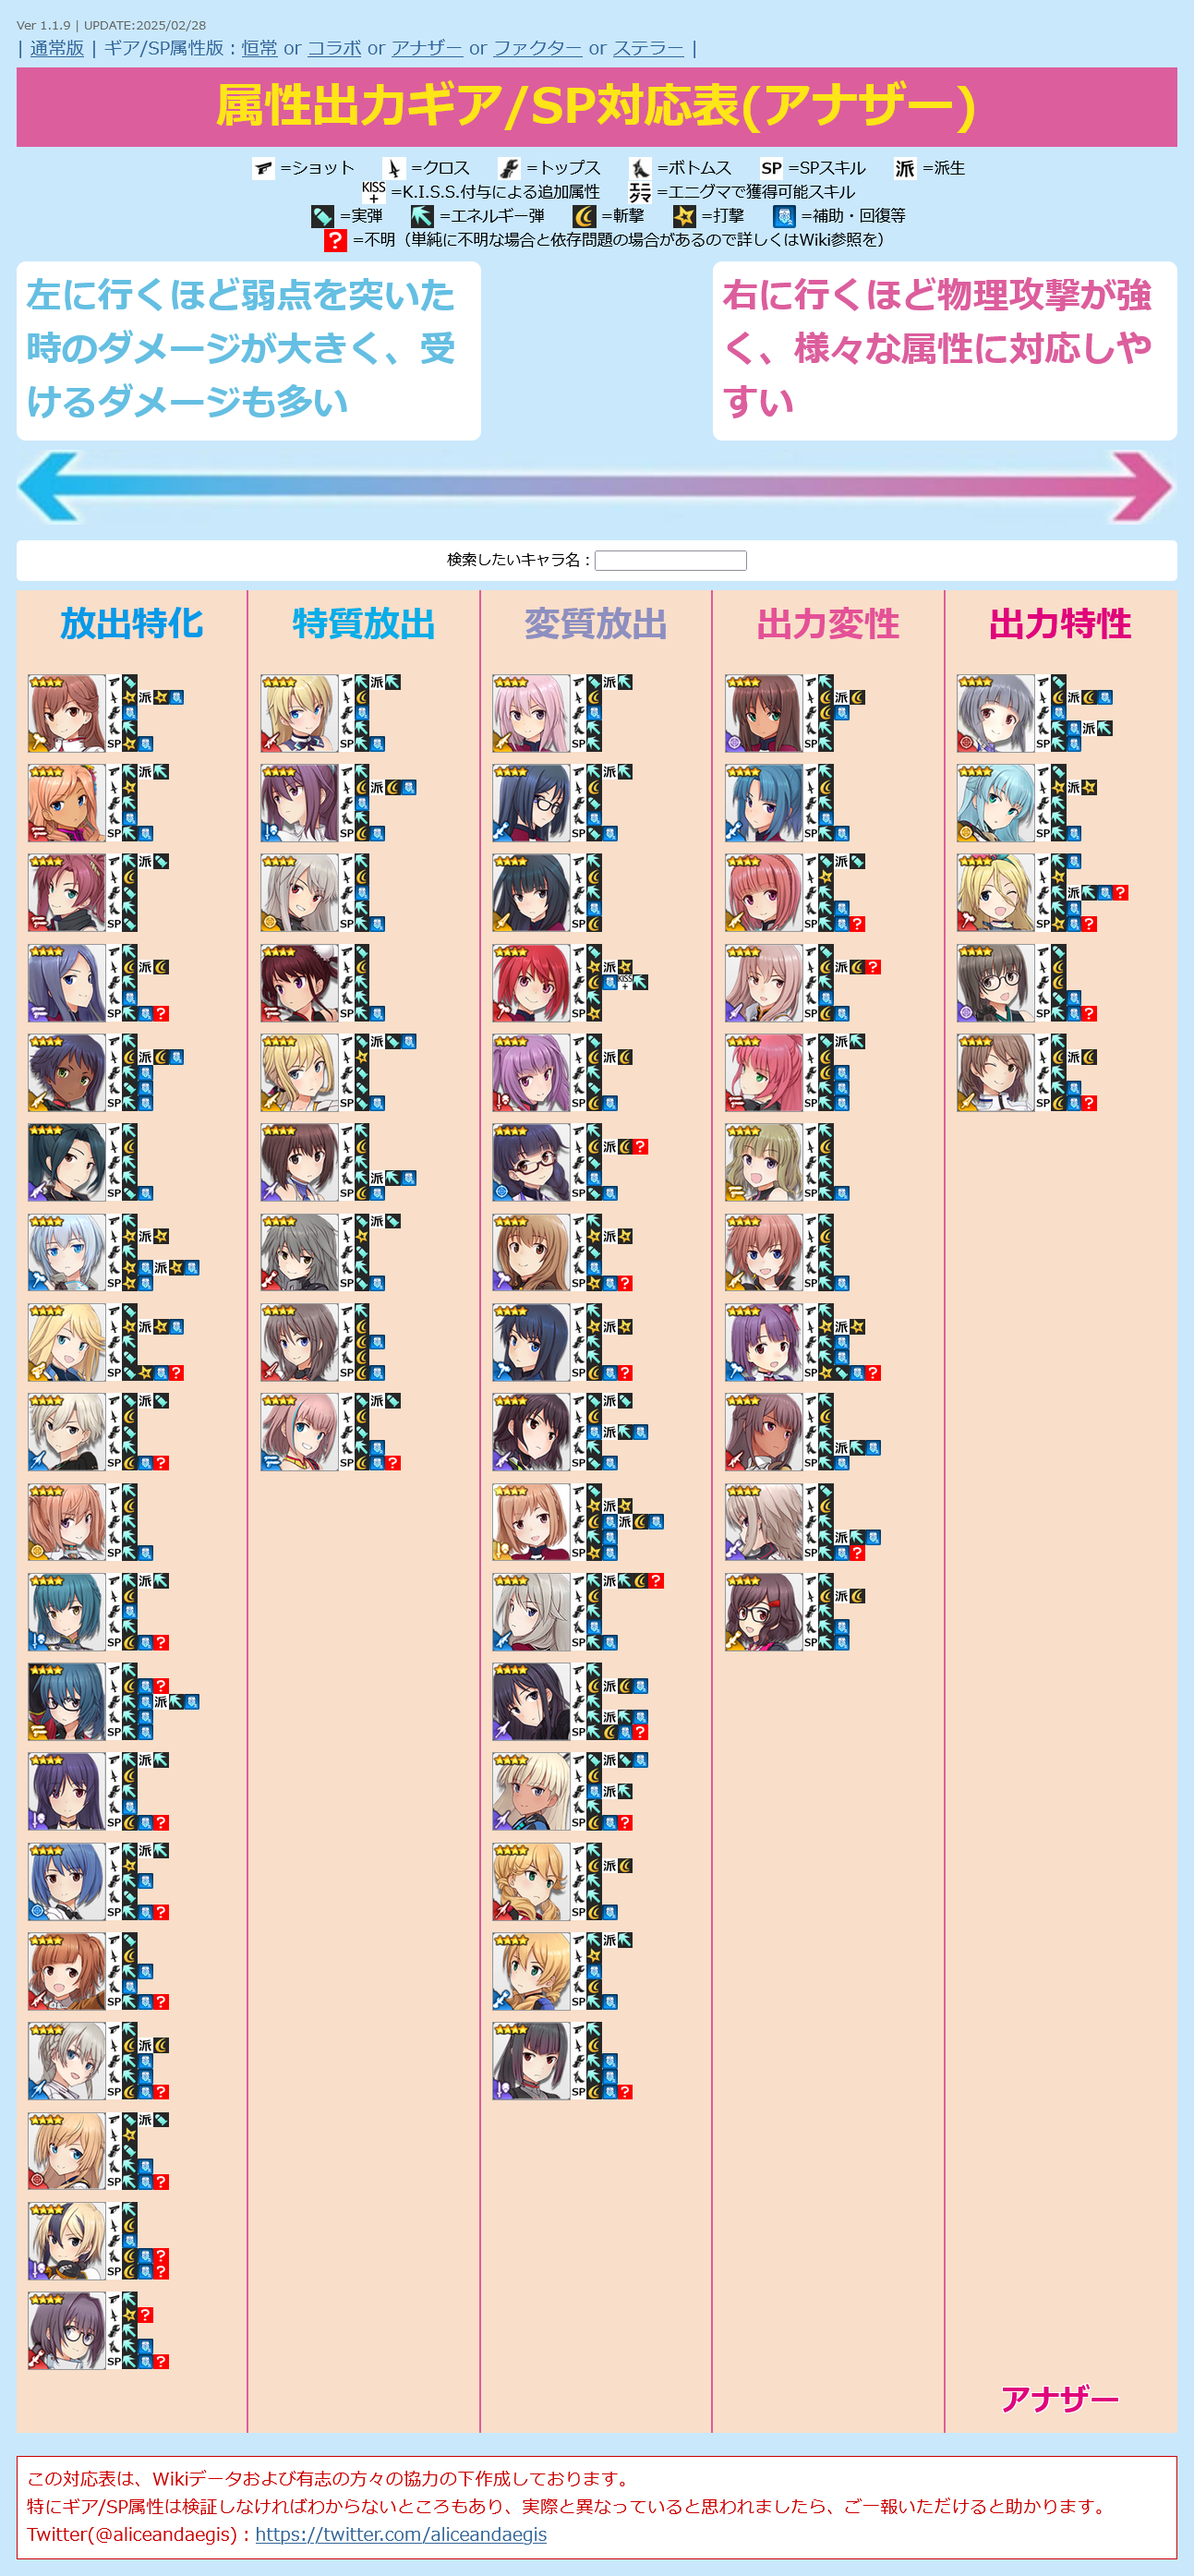
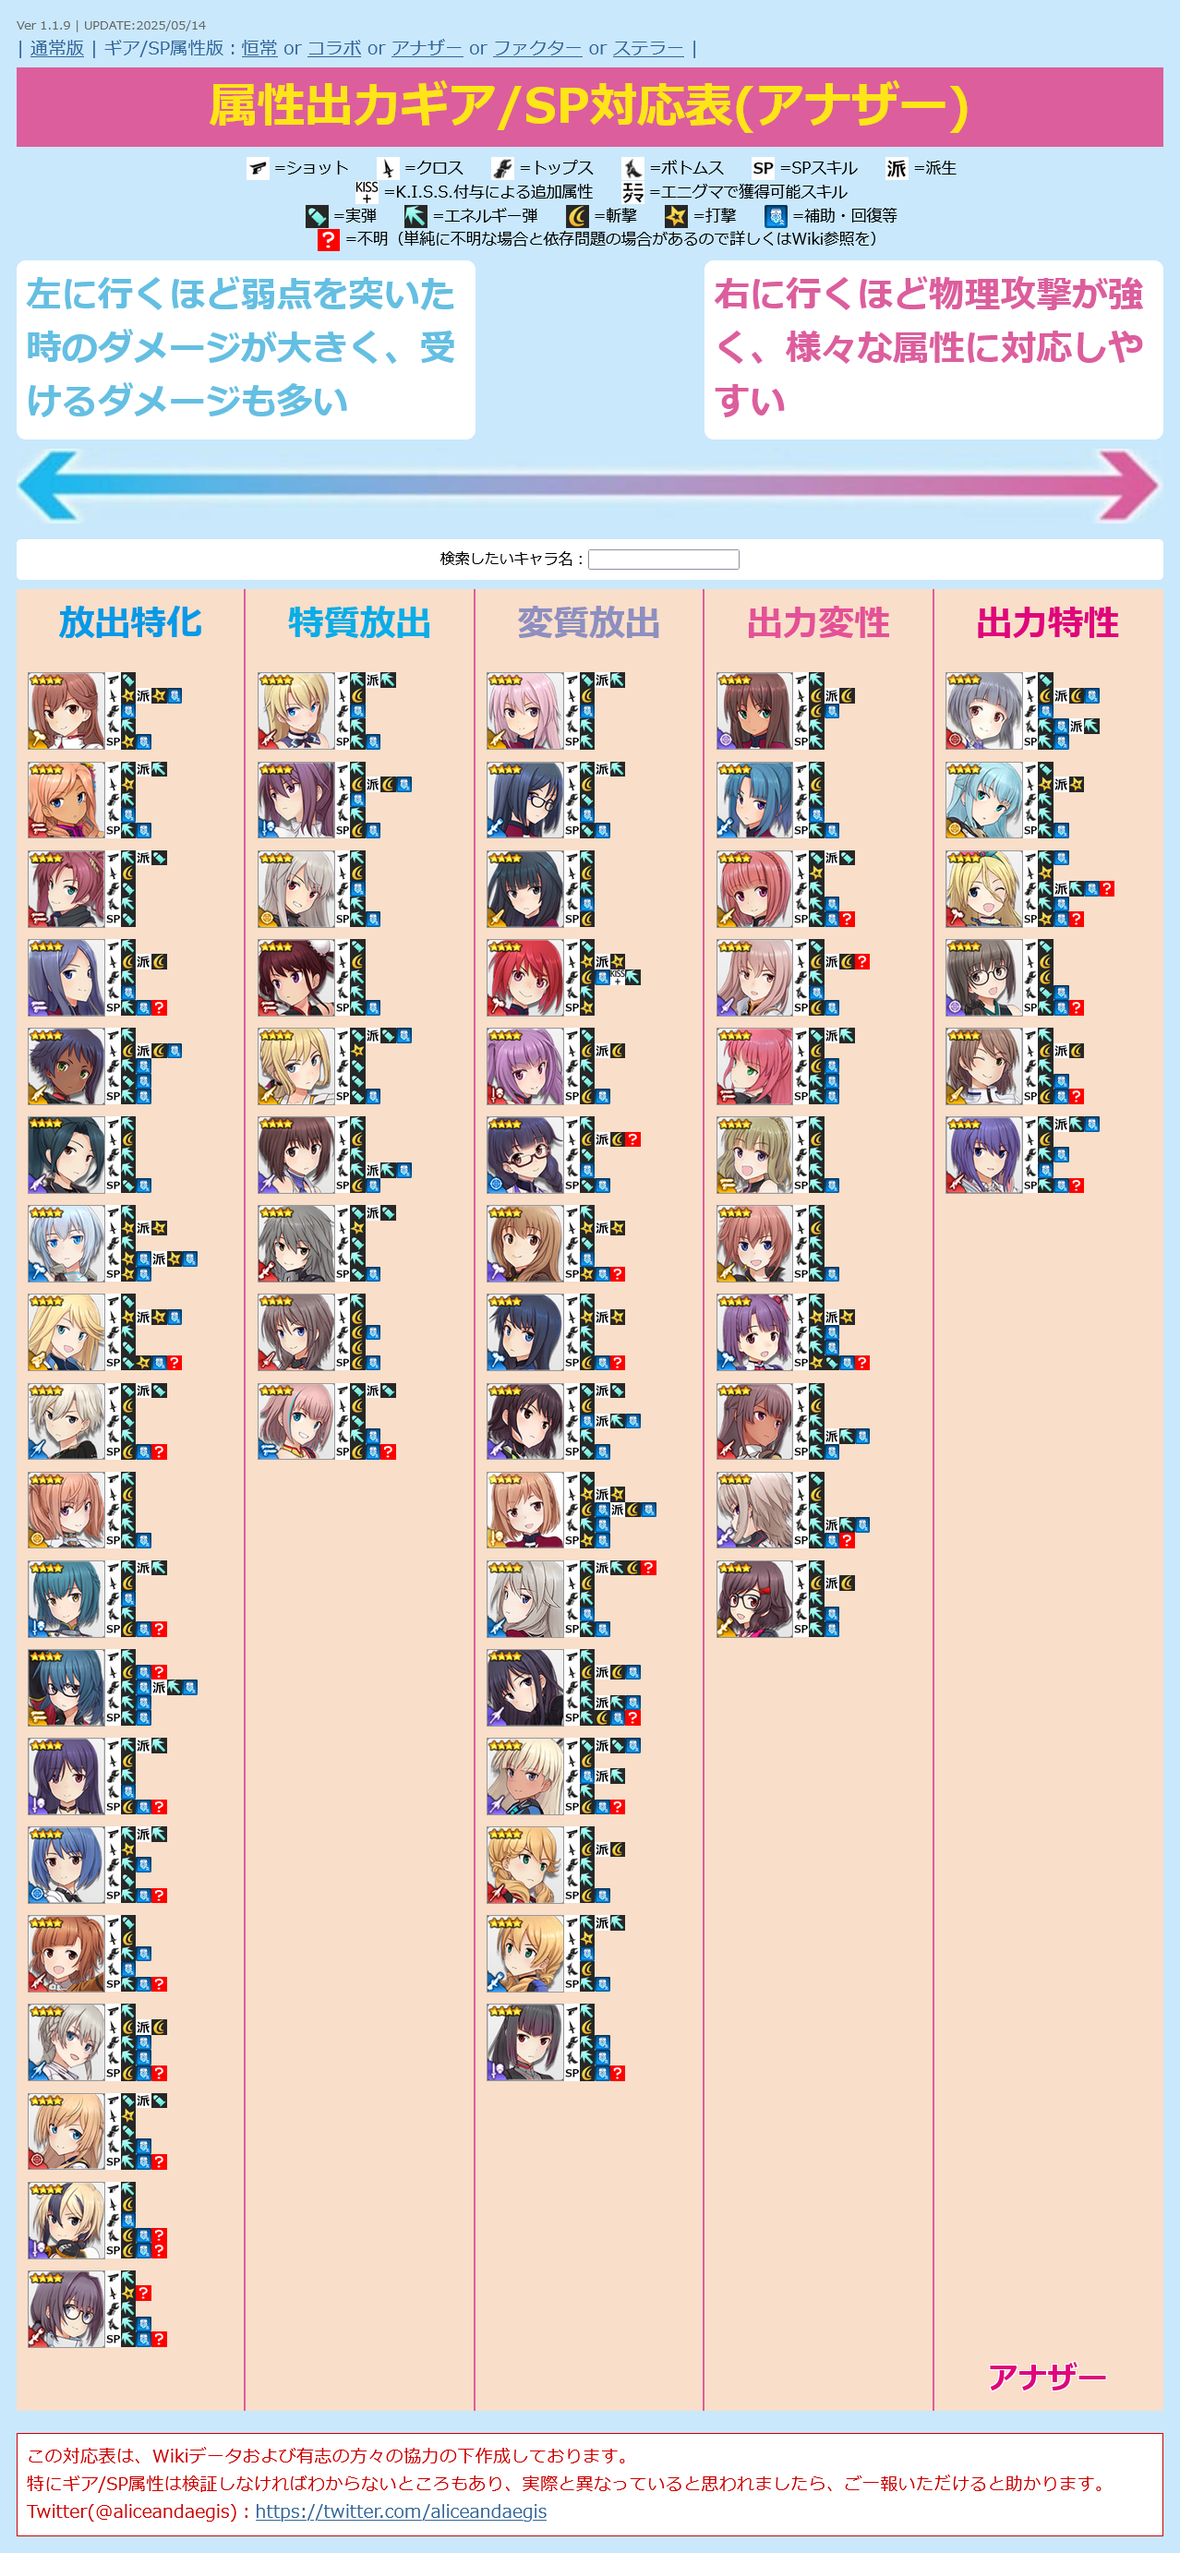
UPDATE charadata
・アナザー 鳳 加純 / 鳳翔を追加

diff --git a/alice.html b/alice.html
@@ -12,7 +12,7 @@
   <script>
 
 /* 更新情報 必要に応じて書き換えてください */
-  var version = "Ver 1.1.9 | UPDATE:2025/04/25";
+  var version = "Ver 1.1.9 | UPDATE:2025/05/14";
 
 
 /*
@@ -2290,6 +2290,20 @@
       "attr": "3",
       "link": "https://wikiwiki.jp/alicegear/%E9%B3%B3%E5%8A%A0%E7%B4%94",
       "category": ""
+    },
+    {
+      "id": "59",
+      "type": "5",
+      "src": "another-otori.png",
+      "name": "鳳 加純 / 鳳翔",
+      "equip1": "2/25",
+      "equip2": "3",
+      "equip3": "25",
+      "equip4": "5",
+      "sp": "25?",
+      "attr": "3",
+      "link": "https://wikiwiki.jp/alicegear/%E9%B3%B3%E5%8A%A0%E7%B4%94%E9%B3%B3%E7%BF%94",
+      "category": "10"
     },
     {
       "id": "60",
